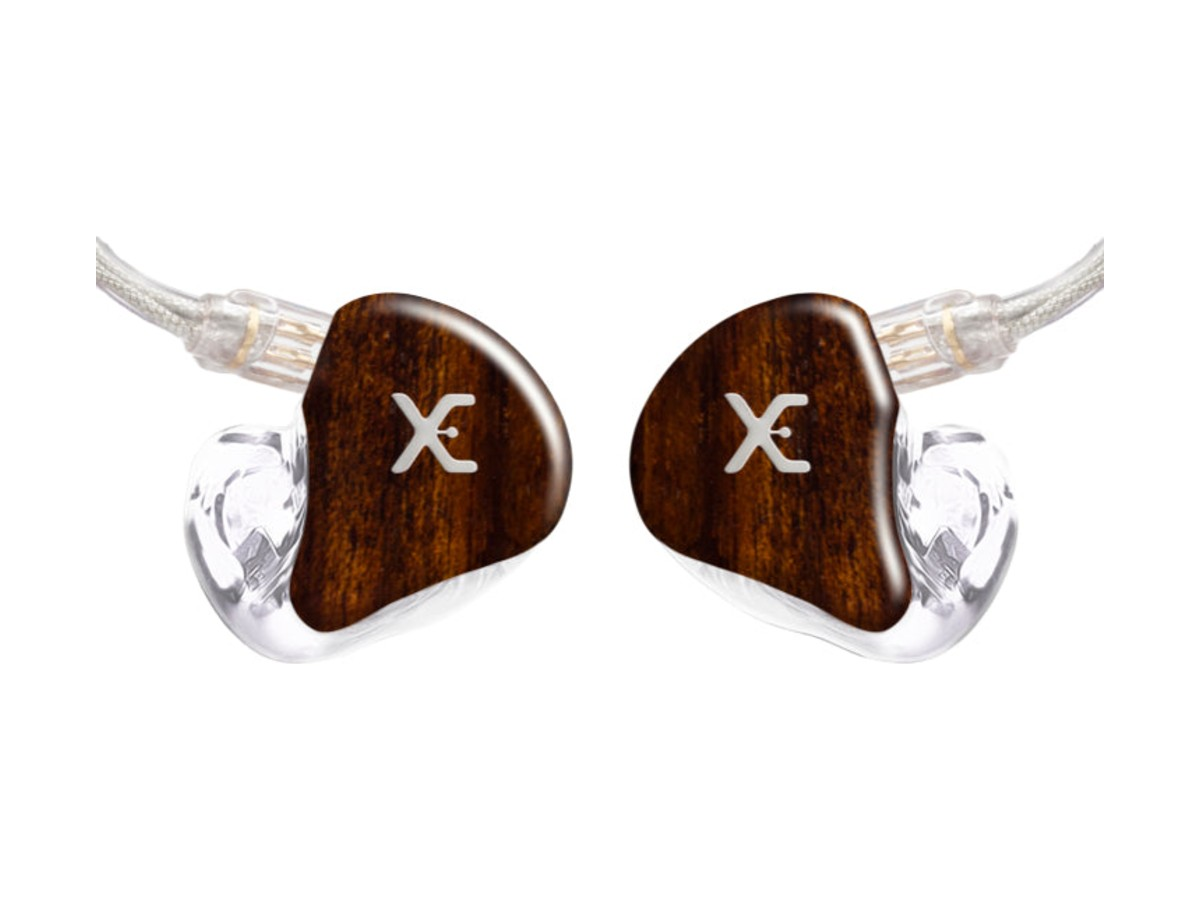
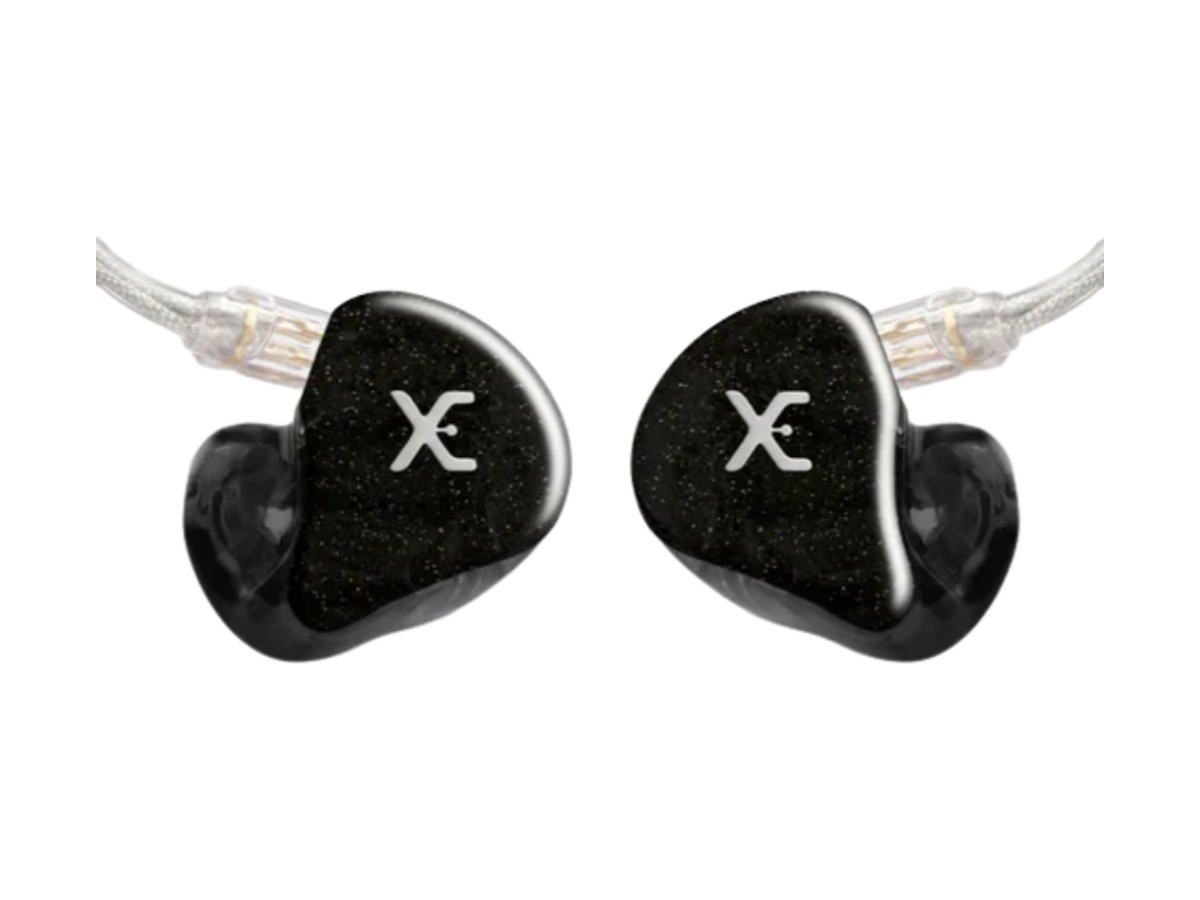
Uma foto distinta por modelo, sem repeticao
Tres pares estavam se repetindo visualmente: XE5 x XE6, XE12 x XE14 e
Stage x ONEMAX universal. A comparacao de cor media dava distancia 1, 5
e 4 entre eles.

Baixei todas as imagens de cada produto e escolhi uma por modelo, sempre
da propria pagina daquele produto. A menor distancia entre dois cards
agora e 34.

O recortador tambem ganhou dois consertos: estende a tarja por densidade
de preto (o texto branco de "LANCAMENTO!" quebrava a faixa e enganava a
deteccao) e pinta branco antes de ler o canvas (PNG transparente era
lido como preto solido).

Changed region(s): [[0.5242, 0.3111, 0.8942, 0.7467], [0.0925, 0.3111, 0.4933, 0.7467], [0.8942, 0.3111, 0.925, 0.3422]]

diff --git a/tools/crop.html b/tools/crop.html
@@ -9,18 +9,18 @@ figcaption{padding:4px;font-size:10px}
 <div class=g id=g></div>
 <script>
 const JOBS = [
-  ["one-A.jpg",        "one-plus-pro.jpg"],
-  ["onemax-A.jpg",     "onemax-pro.jpg"],
-  ["xe3-pro.jpg",      "xe3-pro.jpg"],
-  ["xe4-pro.jpg",      "xe4-pro.jpg"],
-  ["xe5-A.jpg",        "xe5-pro.jpg"],
-  ["xe6-pro.jpg",      "xe6-pro.jpg"],
-  ["xe8-A.jpg",        "xe8-pro.jpg"],
-  ["xe12-pro.jpg",     "xe12-pro.jpg"],
-  ["xe14-A.jpg",       "xe14-pro.jpg"],
-  ["xtreme-stage.jpg", "xtreme-stage.jpg"],
-  ["xtreme-one-plus.jpg","xtreme-one-plus.jpg"],
-  ["xtreme-onemax.jpg","xtreme-onemax.jpg"]
+  ["one_1.jpg",     "one-plus-pro.jpg"],      // roxo
+  ["onemax_0.jpg",  "onemax-pro.jpg"],        // azul-petroleo
+  ["xe3_0.jpg",     "xe3-pro.jpg"],           // madeira clara
+  ["xe4_0.jpg",     "xe4-pro.jpg"],           // laranja
+  ["xe5_0.png",     "xe5-pro.jpg"],           // rosa
+  ["xe6_1.png",     "xe6-pro.jpg"],           // bege
+  ["xe8_0.png",     "xe8-pro.jpg"],           // cinza marmorizado
+  ["xe12_0.png",    "xe12-pro.jpg"],          // madeira escura
+  ["xe14_0.png",    "xe14-pro.jpg"],          // preto
+  ["ustage_5.png",  "xtreme-stage.jpg"],      // verde
+  ["uone_4.jpg",    "xtreme-one-plus.jpg"],   // azul translucido
+  ["uonemax_0.jpg", "xtreme-onemax.jpg"]      // preto
 ];
 
 const OW = 1200, OH = 900;   // tile 4:3, igual ao card
@@ -36,6 +36,8 @@ function analyse(img){
   const c = document.createElement('canvas');
   c.width = img.naturalWidth; c.height = img.naturalHeight;
   const x = c.getContext('2d', {willReadFrequently:true});
+  // PNG com fundo transparente vira preto no canvas: pinta branco antes
+  x.fillStyle = '#ffffff'; x.fillRect(0,0,c.width,c.height);
   x.drawImage(img,0,0);
   const W=c.width, H=c.height;
   const d = x.getImageData(0,0,W,H).data;
@@ -43,22 +45,28 @@ function analyse(img){
   // 1. faixas de banner: linha com um TRECHO CONTINUO de preto muito largo
   //    (a tarja e solida; o produto, mesmo escuro, quebra em pedacos menores)
   const bannerRow = new Uint8Array(H);
+  const darkFrac  = new Float32Array(H);
   for(let y=0;y<H;y++){
-    let run=0, best=0;
+    let run=0, best=0, dark=0;
     for(let xx=0;xx<W;xx++){
       const i=(y*W+xx)*4;
-      if(lum(d[i],d[i+1],d[i+2])<55){ run++; if(run>best) best=run; }
+      if(lum(d[i],d[i+1],d[i+2])<55){ run++; dark++; if(run>best) best=run; }
       else run=0;
     }
+    darkFrac[y] = dark/W;
     bannerRow[y] = (best > W*0.5) ? 1 : 0;
   }
+  // a tarja costuma ter texto branco por cima, o que quebra o trecho continuo.
+  // entao estica a banda enquanto a linha continuar majoritariamente escura.
+  const grow = (y, dir) => { let e=y; while(e+dir>=0 && e+dir<H && darkFrac[e+dir]>0.45) e+=dir; return e; };
   const MINBAND = Math.max(8, H*0.025);   // altura minima para valer como tarja
   let top=0, bot=H-1;
   // tarja colada no topo
   for(let y=0; y<H*0.3; y++){
     if(bannerRow[y]){
       let e=y; while(e<H && bannerRow[e]) e++;
-      if(e-y >= MINBAND) top = Math.min(e + Math.round(H*0.01), H-1);
+      e = grow(e-1, +1) + 1;
+      if(e-y >= MINBAND) top = Math.min(e + Math.round(H*0.012), H-1);
       break;
     }
   }
@@ -66,7 +74,8 @@ function analyse(img){
   for(let y=Math.floor(H*0.62); y<H; y++){
     if(bannerRow[y]){
       let e=y; while(e<H && bannerRow[e]) e++;
-      if(e-y >= MINBAND){ bot = Math.max(y - Math.round(H*0.012), 0); break; }
+      const ini = grow(y, -1);
+      if(e-y >= MINBAND){ bot = Math.max(ini - Math.round(H*0.012), 0); break; }
     }
   }
 

diff --git a/README.md b/README.md
@@ -48,9 +48,20 @@ Referência: beatsbydre.com — tipografia display pesada e fechada, hero full-b
 
 ## Fotos de produto
 
-As imagens do catálogo vinham com uma tarja preta de propaganda queimada na arte ("INDICADO PARA BATERISTAS…"), em enquadramentos e escalas diferentes. Foram reprocessadas: tarja recortada, produto isolado pelo bounding box e recentralizado num tile 4:3 branco com a mesma proporção em todos os modelos. O script está em `tools/crop.html` — abra servindo a pasta com `tools/writer.py` para regerar.
+As imagens do catálogo vinham com uma tarja preta de propaganda queimada na arte ("INDICADO PARA BATERISTAS…", "LANÇAMENTO!"), em enquadramentos e escalas diferentes. Foram reprocessadas: tarja recortada, produto isolado pelo bounding box e recentralizado num tile 4:3 branco, com a mesma proporção em todos os modelos. O script está em `tools/crop.html` — sirva a pasta com `tools/writer.py` e abra para regerar.
 
-**Pendência de conteúdo:** XE12/PRO e XE14/PRO usam praticamente a mesma foto no catálogo da marca (o mesmo par de madeira). Vale pedir fotos distintas para os dois.
+Cada modelo usa uma foto da **sua própria** página de produto, escolhida para que nenhum par se repita visualmente:
+
+| | acabamento | | acabamento |
+|---|---|---|---|
+| XE ONE+/PRO | roxo | XE8/PRO | cinza marmorizado |
+| XE ONEMAX/PRO | azul-petróleo | XE12/PRO | madeira escura |
+| XE3/PRO | madeira clara | XE14/PRO | preto |
+| XE4/PRO | laranja | Xtreme Stage | verde |
+| XE5/PRO | rosa | Xtreme One Plus | azul translúcido |
+| XE6/PRO | bege | Xtreme ONEMAX | preto |
+
+O faceplate é escolhido pelo cliente, então essas cores são exemplos do catálogo — não são a única opção de cada modelo. Ao trocar uma foto, vale rodar a comparação de cor média para garantir que nenhuma ficou parecida demais com outra.
 
 ## Rodar
 
